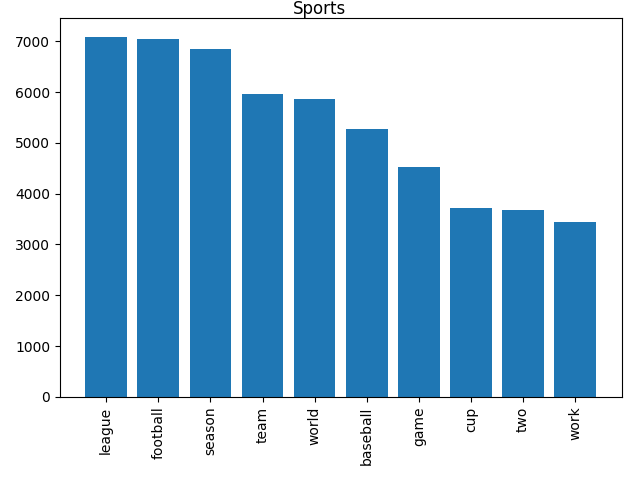
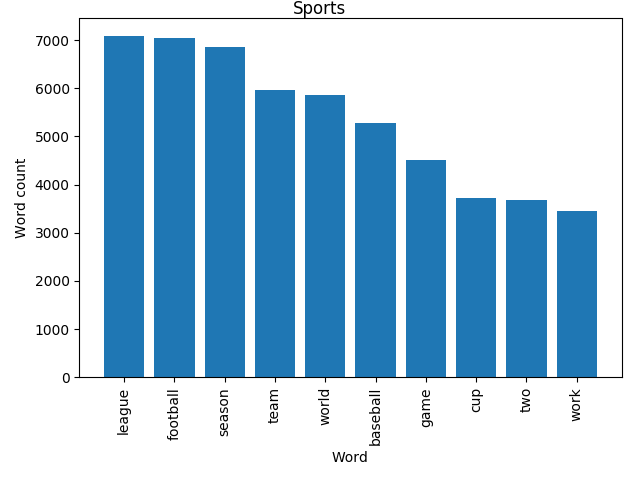
Updated images

Changed region(s): [[0.0, 0.0312, 0.9375, 0.9688], [0.0625, 0.8125, 0.0938, 0.8438]]

diff --git a/stats.py b/stats.py
@@ -26,6 +26,8 @@ def columnChart(heavy_hitters, title, amount):
     fig, axs = plt.subplots()
     fig.suptitle(title, y=1.0)
     axs.bar(words, counts)
+    axs.set_ylabel('Word count')
+    axs.set_xlabel('Word')
     locs, labels = plt.xticks()
     plt.setp(labels, rotation=90)
     plt.show()
@@ -53,5 +55,5 @@ if __name__ == "__main__":
                 line = line.replace(" mapped to", "").replace("\n", "").split(" ")
                 Cats[line[1]] = int(line[0])
     #pieChart(Cats)
-    #columnChart(HHs, 'Technology', 10)
-    print(uniqueWords(HHs, 'Sports'))
+    columnChart(HHs, 'Sports', 10)
+    #print(uniqueWords(HHs, 'Sports'))
